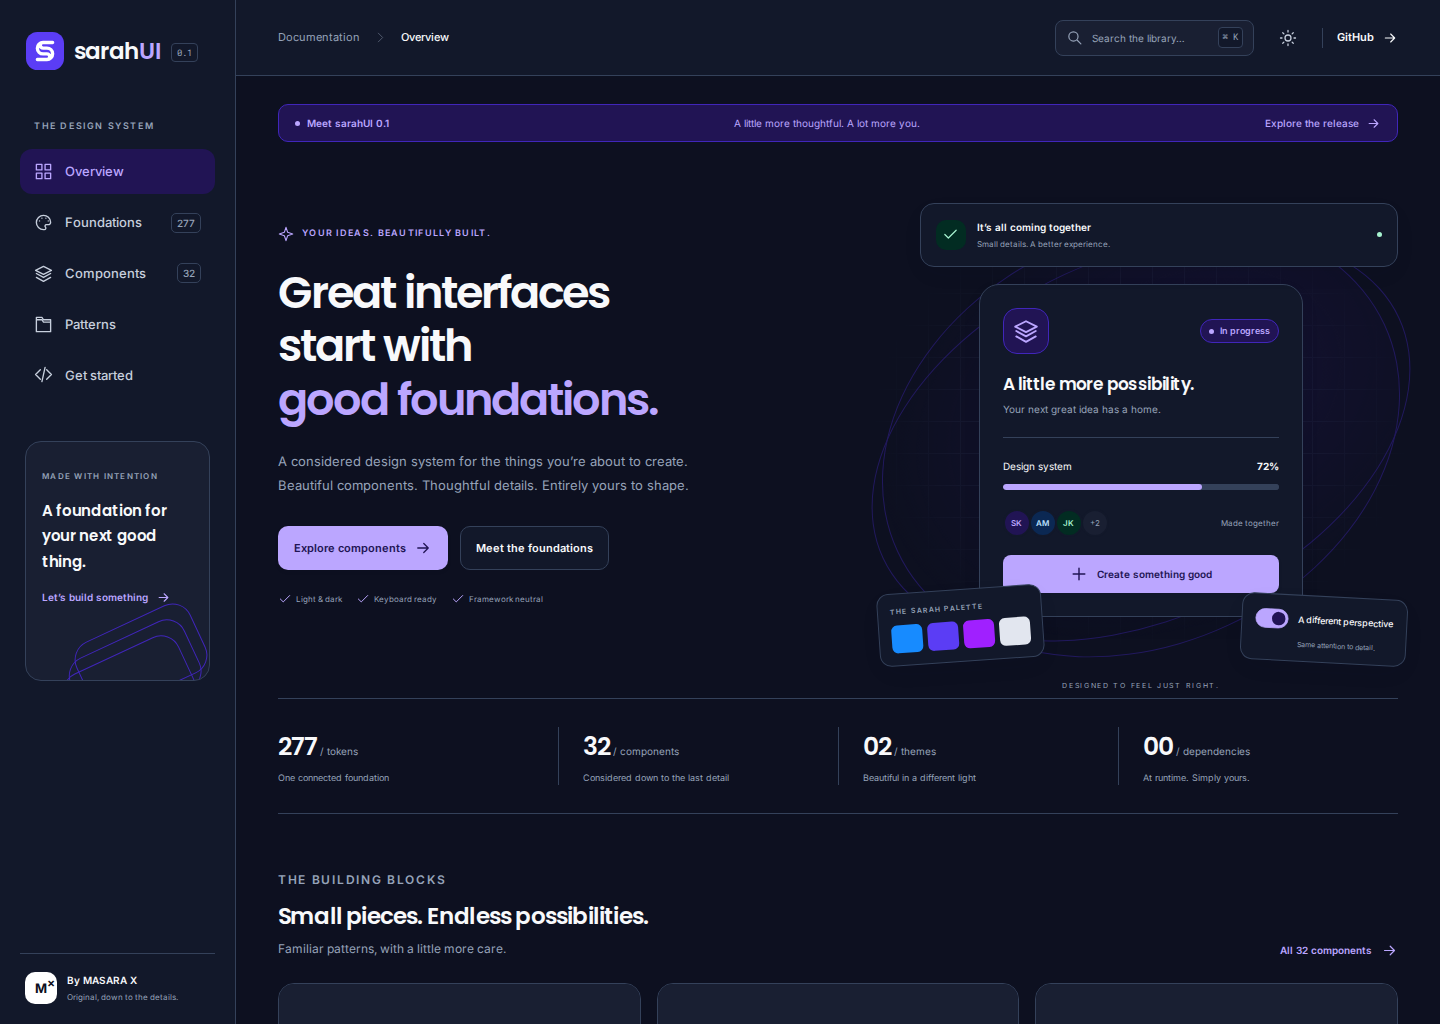
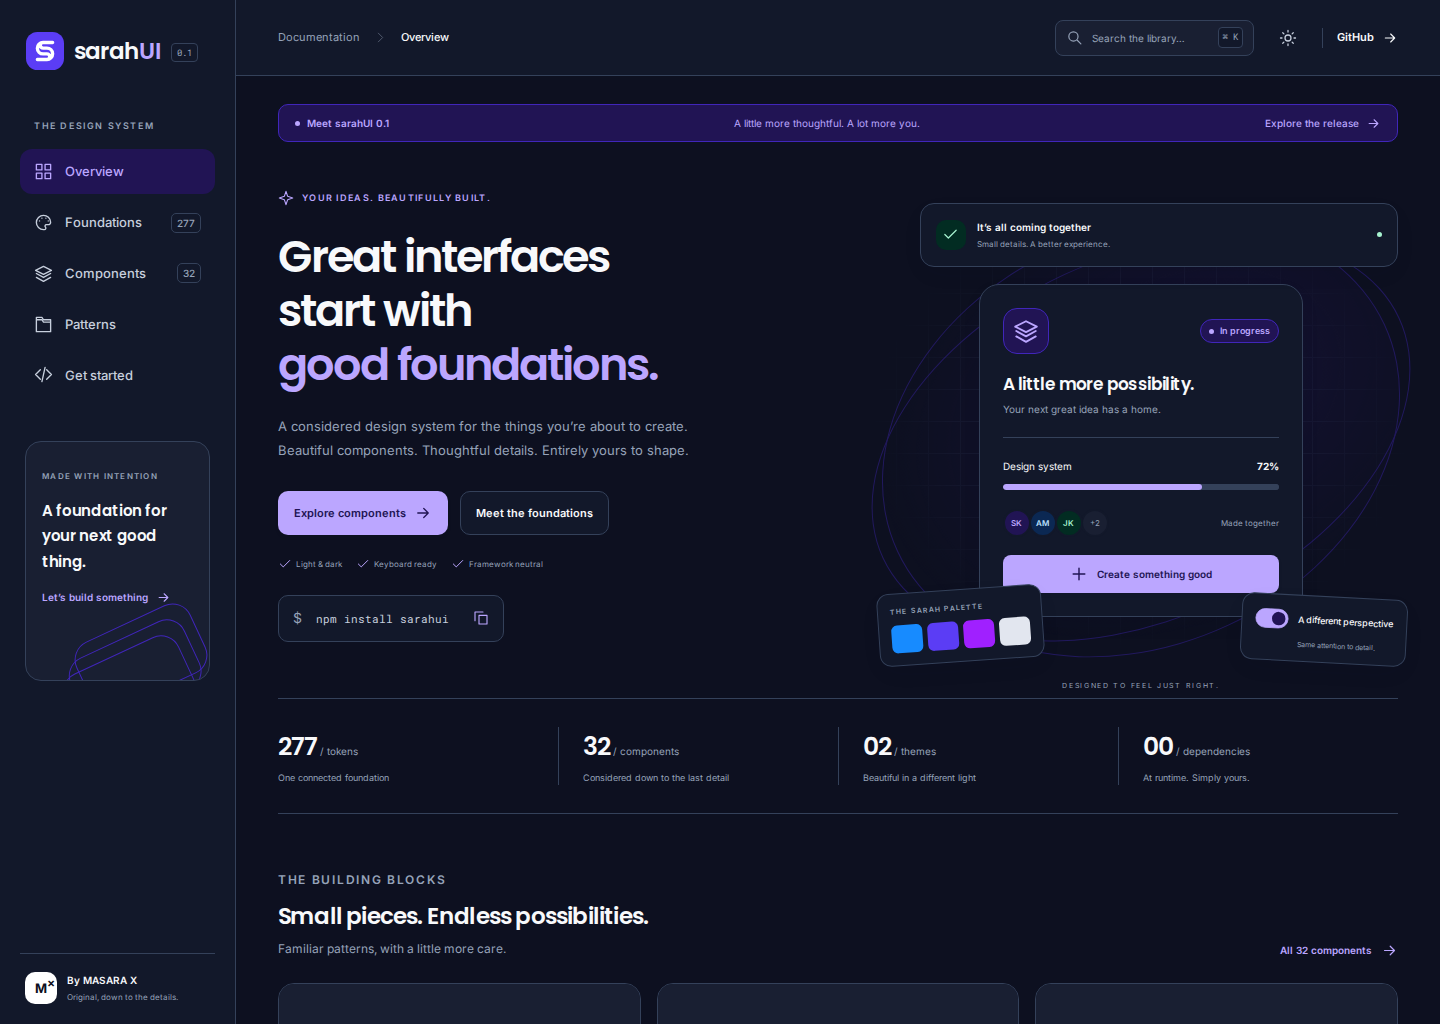
docs: record npm release verification and updated setup previews

Changed region(s): [[0.1875, 0.1875, 0.4688, 0.625]]

diff --git a/docs/verification.md b/docs/verification.md
@@ -1,20 +1,29 @@
 # Verification record
 
-sarahUI 0.1 was verified on **13 September 2026** at source commit [0522dd38](https://github.com/masarax/sarahui/commit/0522dd38c8e02842a52d9301a47bc2252122486f).
+sarahUI **0.1.0** was verified on **13 September 2026** at source commit [7e2bf41b](https://github.com/masarax/sarahui/commit/7e2bf41b9e99516ef4b76fa9d8e43e5a22ac1d4d).
 
-The [recorded GitHub Actions run](https://github.com/masarax/sarahui/actions/runs/34741540785) passed the build, generated-token reproducibility check, **66 unit tests**, and **17 Chromium browser scenarios**.
+The [recorded GitHub Actions run](https://github.com/masarax/sarahui/actions/runs/34768734157) passed all quality and npm publication checks. The public package is available as [sarahui on npm](https://www.npmjs.com/package/sarahui/v/0.1.0), with GitHub Actions provenance.
 
 | Check | Result |
 | --- | --- |
-| Token validation, alias resolution, contrast, and templates | 66 passed |
-| Browser behavior and responsive composition | 17 passed |
+| Tokens, contrast, templates, documentation recipes and registry regression tests | 71 passed |
+| Browser behavior, installation guide and responsive composition | 18 passed |
+| cPanel configuration and transfer safeguards | 5 passed |
+| Fresh tarball installation, ESM, CSS, token exports and six bundled fonts | Passed |
+| Strict TypeScript consumer compilation | Passed |
+| Published tarball matches the verified SHA-512 integrity | Passed |
+| Fresh installation from npm without the publishing token | Passed |
 | Browser console/page errors | 0 |
 | Generated tokens match checked-in output | Passed |
 | Static documentation build | Passed |
 
+The original publication succeeded in [run 34768393303](https://github.com/masarax/sarahui/actions/runs/34768393303), but its immediate install check encountered a temporary registry `404`. The recorded successful run above verified the same immutable tarball after adding bounded registry-propagation handling. A separate fresh project also passed the exact unversioned command `npm install sarahui`.
+
+cPanel deployment is configured and deliberately **skipped** because its FTP secrets have not been added. No live FTP transfer is claimed. Follow the [deployment guide](deployment.md) when the account is ready.
+
 ## Coverage
 
-Browser verification covers the complete 32-family catalog; fonts and ARIA references; command search; component filters; tab, menu, and modal keyboard behavior; tooltip dismissal; copyable code disclosure; native form values; table sorting and mixed selection; project creation; workspace pagination; settings validation; theme persistence; reduced motion; forced colors; and mobile navigation.
+Browser verification covers the complete 32-family catalog; fonts and ARIA references; command search; component filters; tab, menu, and modal keyboard behavior; tooltip dismissal; npm examples, API properties and HTML disclosure; installation and framework tabs; setup deep links; native form values; table sorting and mixed selection; project creation; workspace pagination; settings validation; theme persistence; reduced motion; forced colors; and mobile navigation.
 
 All five documentation views fit **320, 390, 768, and 1024px** viewports without document-level horizontal overflow. Palettes and data tables remain deliberately scrollable within their own regions.
 
@@ -32,16 +41,19 @@ These are unedited screenshots from the recorded browser run. Desktop captures a
 | Components | [Open screenshot](previews/components-light.png) |
 | Foundations | [Open screenshot](previews/foundations-light.png) |
 | Workspace pattern | [Open screenshot](previews/patterns-light.png) |
+| Installation guide | [Open screenshot](previews/getting-started-light.png) |
 
 ## Reproduce
 
 ~~~sh
+npm ci --ignore-scripts
 npm run check
-npm install --no-save --package-lock=false playwright@1.62.1
+npm run test:package
+npm run test:deploy
 npx playwright install chromium
 npm run test:browser
 ~~~
 
-The workflow uploads a complete static documentation build and browser evidence. The checked-in gallery remains available after temporary Actions artifacts expire.
+The workflow uploads a complete static documentation build, browser evidence and the exact tested npm archive. The checked-in gallery remains available after temporary Actions artifacts expire.
 
-This record covers Chromium automation and visual review. Firefox, Safari, screen readers, TypeScript compilation, and full-product accessibility audits were not part of this run. See the [accessibility guide](accessibility.md) for integration checks.
+This record covers Chromium automation, visual review, TypeScript compilation and package installation. Firefox, Safari, screen readers and full-product accessibility audits were not part of this run. See the [accessibility guide](accessibility.md) for integration checks.

diff --git a/README.md b/README.md
@@ -1,12 +1,13 @@
 <p align="center"><strong>sarahUI</strong><br>Thoughtful by design.<br><sub>An original design system by MASARA X</sub></p>
 
 [![Quality checks](https://github.com/masarax/sarahui/actions/workflows/ci.yml/badge.svg)](https://github.com/masarax/sarahui/actions/workflows/ci.yml)
+[![npm version](https://img.shields.io/npm/v/sarahui)](https://www.npmjs.com/package/sarahui)
 
 sarahUI is a foundation-first UI system with an original blue, indigo, and violet identity. It includes reusable native HTML templates, CSS components, an ES-module interaction layer, and an interactive documentation application.
 
 ![sarahUI documentation in light mode](docs/previews/overview-light.png)
 
-[Dark theme](docs/previews/overview-dark.png) · [Mobile](docs/previews/overview-mobile.png) · [Components](docs/previews/components-light.png) · [Foundations](docs/previews/foundations-light.png) · [Workspace pattern](docs/previews/patterns-light.png)
+[Dark theme](docs/previews/overview-dark.png) · [Mobile](docs/previews/overview-mobile.png) · [Components](docs/previews/components-light.png) · [Foundations](docs/previews/foundations-light.png) · [Workspace pattern](docs/previews/patterns-light.png) · [Installation guide](docs/previews/getting-started-light.png)
 
 - **277 token entries:** 85 primitive colors, 48 semantic roles in each theme, layout, typography, motion, layers, grid, and component aliases.
 - **32 component families**, with keyboard interactions and explicit states.
